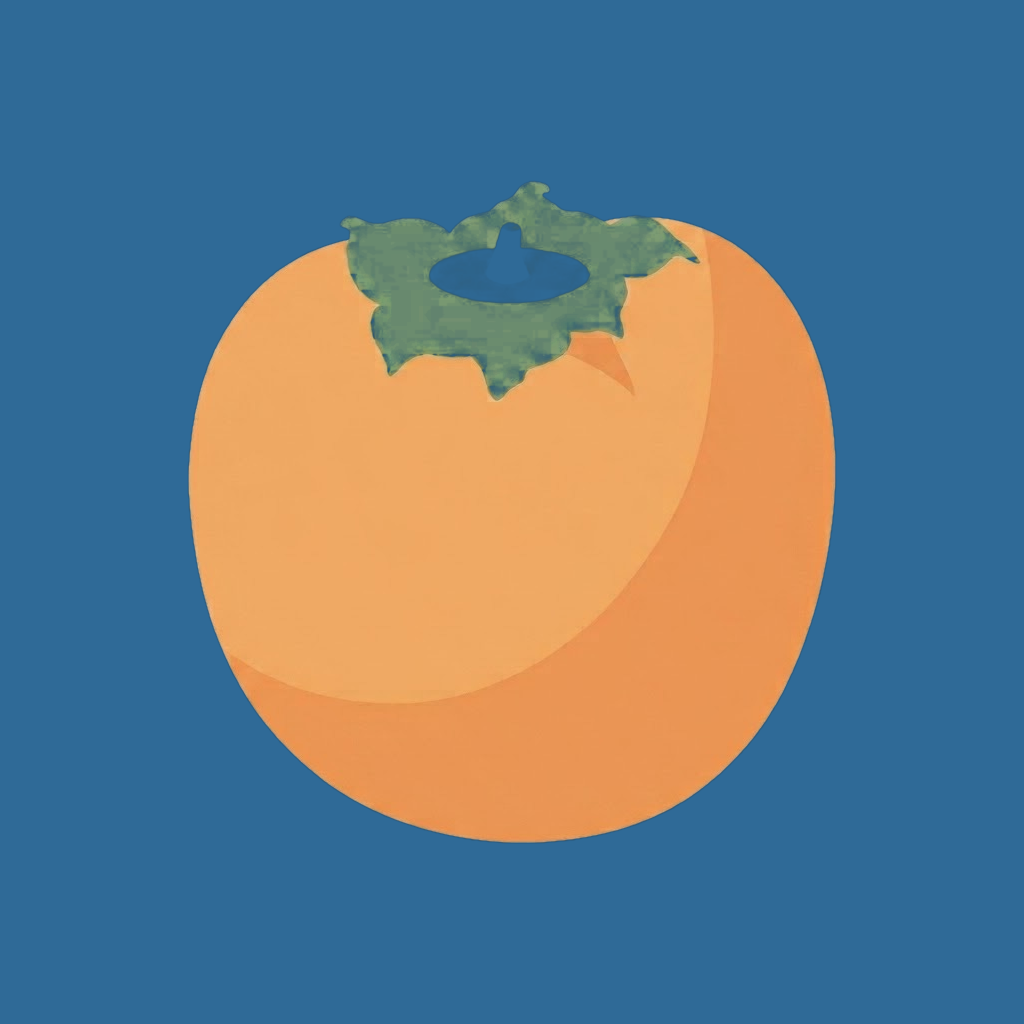
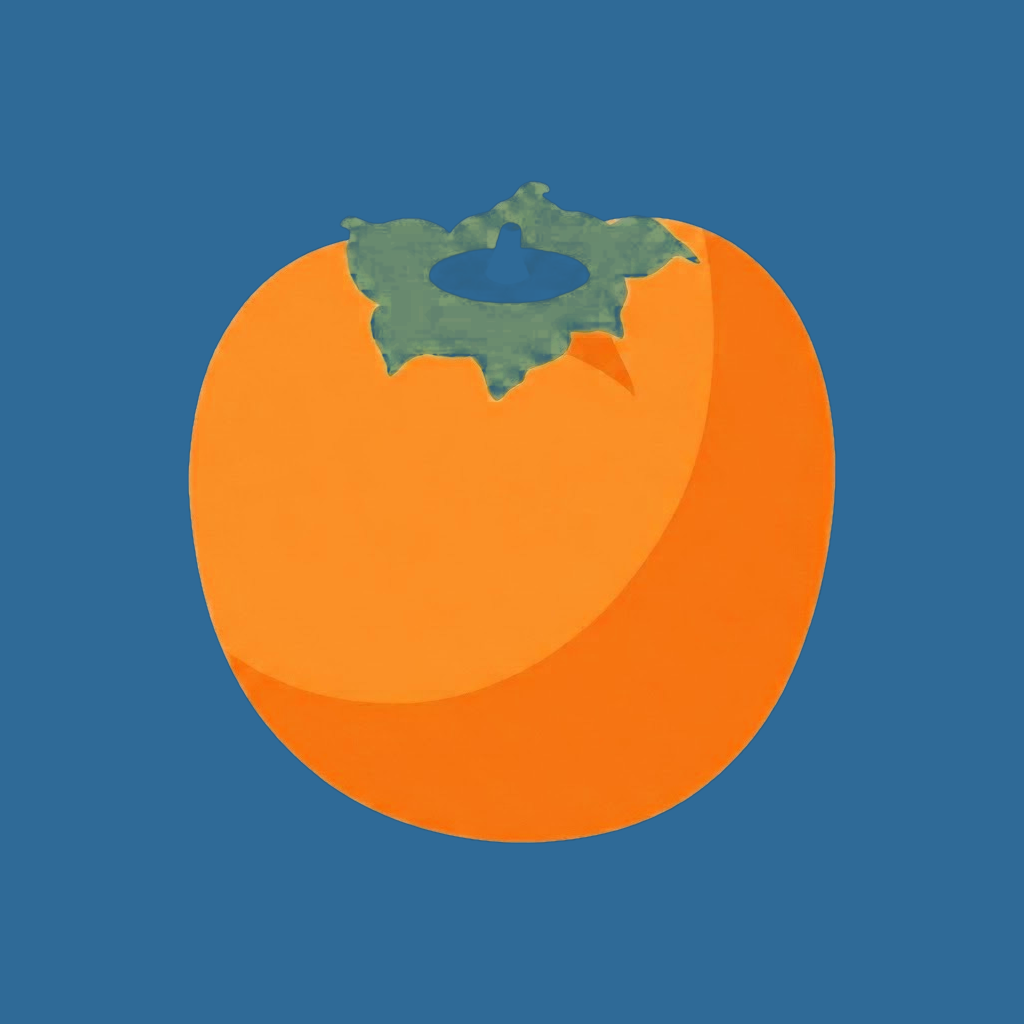
Icône d'app : aviver l'orange du kaki (saturation +45 %)
Le dessin d'origine est pastel : sur le bleu profond du fond, il manquait
de présence. `aviver_orange` (`faire-icone.py`) sature l'orange à 1,45 et
relève sa luminosité à 1,05.

C'est la SATURATION qui produit le « lumineux » recherché : monter la
luminosité seule délave au lieu d'aviver — essayé, +14 % de valeur donnait
un fruit plus pâle, pas plus vif.

Seuls les pixels de teinte orange sont touchés (TEINTE_MAX_ORANGE) : le
vert du calice ne bouge pas, sa teinte suffit à le distinguer et il n'y a
aucun masque à dessiner. Le traitement est une étape du script, pas un PNG
retouché à la main — le dessin source reste intact et les trois constantes
à 1,0 rendent les couleurs d'origine.

Le fond ne change pas (#2F6A97). Le bleu de Plutar (#5F8FC7) a été essayé
au passage et écarté : contraste plus faible, et deux icônes bleu presque
identiques sur le même Dock.

Les deux plateformes recompilent sans erreur, apparences Aqua, DarkAqua et
Tintable intactes.

Changed region(s): [[0.1875, 0.2188, 0.8125, 0.8438]]

diff --git a/Design/AppIcon/faire-icone.py b/Design/AppIcon/faire-icone.py
@@ -8,6 +8,7 @@
 # quelle. Seul le FOND change d'une apparence à l'autre — le fruit est le même
 # en clair et en sombre, comme dans la version précédente de l'icône.
 
+import colorsys
 import json
 import os
 import shutil
@@ -33,6 +34,17 @@ CALQUE = "kaki-fruit.png"
 # aurait sali les bords adoucis du détourage pour le même résultat.
 MIROIR = True
 
+# Avivement de l'orange. Le dessin d'origine est pastel : sur le bleu profond
+# du fond, il manquait de present. La SATURATION est le bon levier — monter la
+# luminosite seule delave au lieu d'aviver (essaye : +14 % de valeur donnait un
+# fruit plus pale, pas plus lumineux).
+SATURATION = 1.45
+LUMINOSITE = 1.05
+
+# Le vert du calice ne doit PAS bouger : seuls les pixels de teinte orange sont
+# touches. La teinte suffit a les distinguer, il n'y a aucun masque a dessiner.
+TEINTE_MAX_ORANGE = 0.14
+
 # ----------------------------------------------------------------- palettes
 FOND_CLAIR = "#2F6A97"   # bleu profond, complémentaire de l'orange du fruit
 FOND_SOMBRE = "#000000"
@@ -43,6 +55,29 @@ def rvb(hexa):
 
 
 # ----------------------------------------------------------------- calque
+def aviver_orange(im):
+    """Sature l'orange du fruit, sans toucher au vert du calice."""
+    if SATURATION == 1.0 and LUMINOSITE == 1.0:
+        return im
+    lu = im.load()
+    sortie = im.copy()
+    ls = sortie.load()
+    for y in range(im.height):
+        for x in range(im.width):
+            r, v, b, a = lu[x, y]
+            if a == 0:
+                continue
+            t, s, l = colorsys.rgb_to_hsv(r / 255, v / 255, b / 255)
+            if t > TEINTE_MAX_ORANGE:      # au-dela : le vert du calice
+                continue
+            s = min(1.0, s * SATURATION)
+            l = min(1.0, l * LUMINOSITE)
+            rr, vv, bb = colorsys.hsv_to_rgb(t, s, l)
+            ls[x, y] = (round(rr * 255), round(vv * 255), round(bb * 255), a)
+    return sortie
+
+
+
 def preparer_calque():
     """Recentre le dessin sur la toile et l'écrit comme calque d'avant-plan.
 
@@ -57,6 +92,8 @@ def preparer_calque():
         raise SystemExit(f"dessin source attendu en {COTE}×{COTE}, reçu {src.size}")
     if MIROIR:
         src = src.transpose(Image.FLIP_LEFT_RIGHT)
+
+    src = aviver_orange(src)
 
     x0, y0, x1, y1 = src.getchannel("A").getbbox()
     dx = round(COTE / 2 - (x0 + x1) / 2)

diff --git a/CLAUDE.md b/CLAUDE.md
@@ -1098,10 +1098,16 @@ Xcode), fabriquées par `faire-icone.py`.
   ouvrant le fichier dans Icon Composer.
 - **Illustration source** : le kaki détouré de
   `Ressources App Pierre-Vincent/Icône app/…/kaki_detoure_couleur.png`, repris
-  tel quel — ni recoloré ni redessiné. Deux traitements seulement : un
-  **miroir horizontal**, pour que la lumière vienne d'en haut à gauche (le
-  modelé est déjà peint dans l'image, repeindre les aplats aurait sali les
-  bords du détourage), et un **recentrage** sur la toile.
+  repris sans le redessiner. **Trois** traitements, tous dans
+  `faire-icone.py` : un **miroir horizontal**, pour que la lumière vienne d'en
+  haut à gauche (le modelé est déjà peint dans l'image, repeindre les aplats
+  aurait sali les bords du détourage) ; un **recentrage** sur la toile ; et un
+  **avivement de l'orange** (saturation ×1,45, luminosité ×1,05).
+  - **La saturation est le bon levier, pas la luminosité** : monter la valeur
+    seule DÉLAVE au lieu d'aviver — essayé, +14 % donnait un fruit plus pâle.
+  - **Seuls les pixels de teinte orange sont touchés** (`TEINTE_MAX_ORANGE`) :
+    le vert du calice ne bouge pas. La teinte suffit à les séparer, aucun
+    masque à dessiner. Les trois constantes à `1.0` rendent l'original.
 - Une variante entièrement **vectorielle** dort dans
   `Design/AppIcon/variante-vectorielle/` : plus simple de dessin, en deux
   calques (fruit et calice), écartée au profit de l'illustration d'origine,

diff --git a/Design/AppIcon/README.md b/Design/AppIcon/README.md
@@ -39,6 +39,15 @@ couleurs du fruit. Deux traitements seulement, tous deux dans
   que demandent les HIG (« Keep primary content centered ») : marges de 186 à
   187 px en horizontal, 179 à 180 px en vertical.
 
+- **Avivement de l'orange** (`SATURATION = 1.45`, `LUMINOSITE = 1.05`). Le
+  dessin d'origine est pastel : sur le bleu profond du fond, il manquait de
+  présence. C'est la **saturation** qui fait le « lumineux » recherché —
+  monter la luminosité seule délave au lieu d'aviver (essayé : +14 % de valeur
+  donnait un fruit plus pâle, pas plus vif). Seuls les pixels de teinte orange
+  sont touchés (`TEINTE_MAX_ORANGE`) : **le vert du calice ne bouge pas**, sa
+  teinte suffit à le distinguer, il n'y a aucun masque à dessiner. Ramener les
+  deux facteurs à `1.0` rend les couleurs d'origine.
+
 Le fruit est **identique en clair et en sombre** — seul le fond change, comme
 dans la version précédente de l'icône. Le creux du calice laisse voir le fond :
 bleu en apparence claire, noir en sombre, où il se lit très bien comme un
